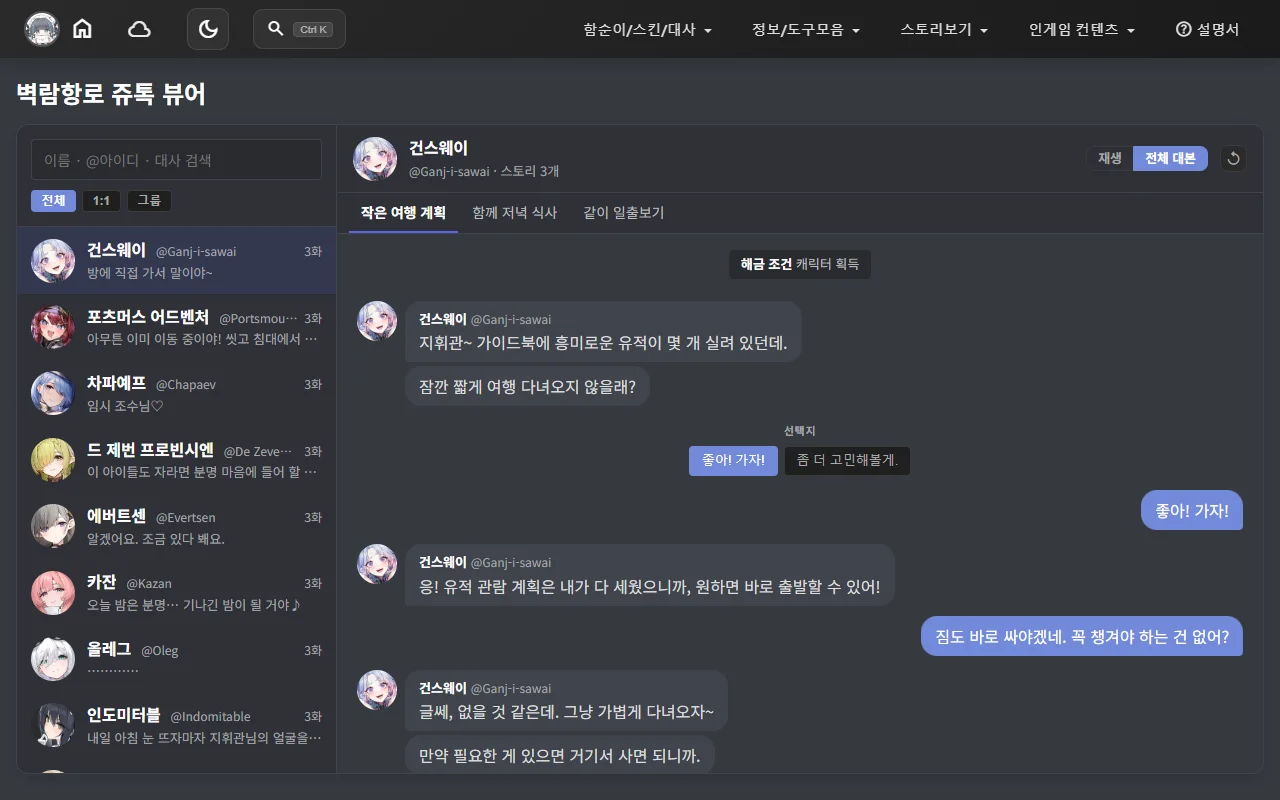
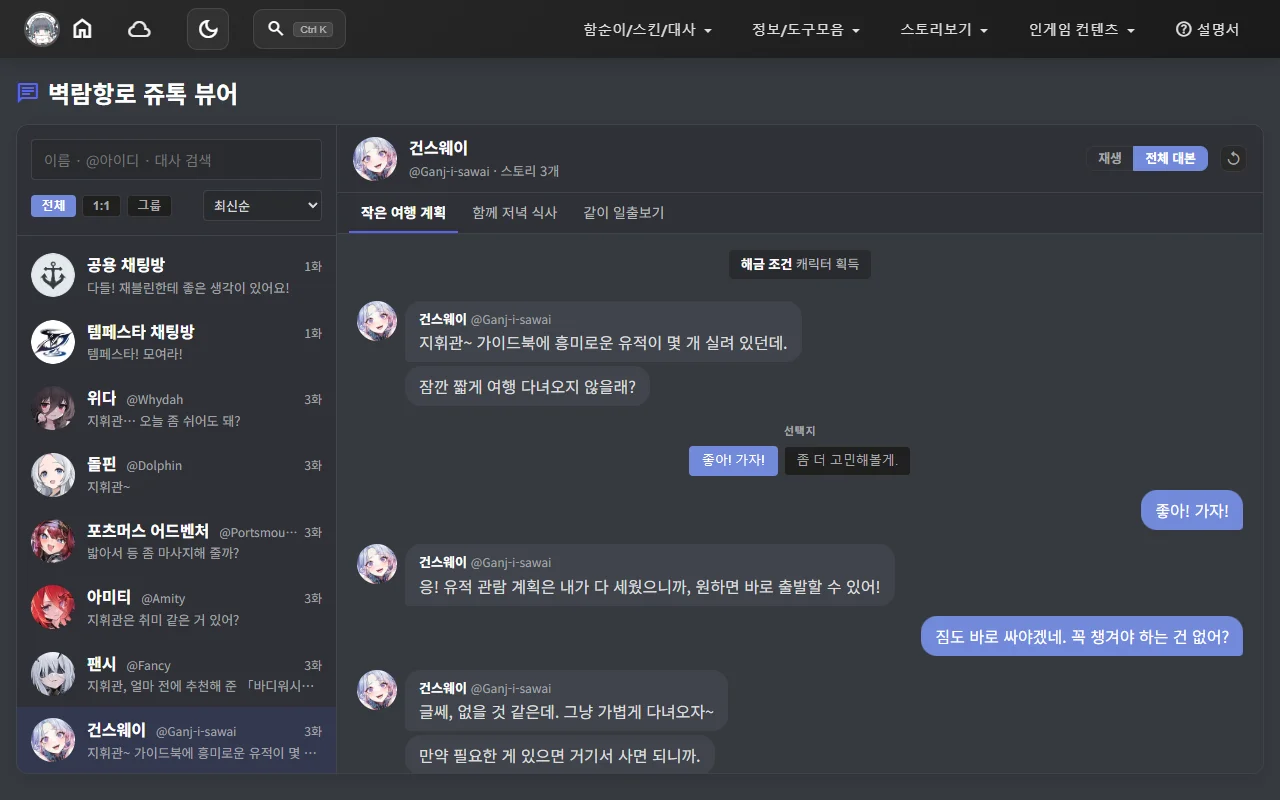
쥬스톡 ui 살짝 다듬기

Changed region(s): [[0.0, 0.2188, 0.2812, 0.9688], [0.0, 0.0938, 0.1875, 0.1562], [0.2188, 0.4688, 0.25, 0.5]]

diff --git a/public/js/chat-viewer/chat-viewer.engine.js b/public/js/chat-viewer/chat-viewer.engine.js
@@ -28,6 +28,8 @@ import {
     searchSpeakers,
     searchLines,
     storyHits,
+    addedOrder,
+    CHAT_SORTS,
 } from './chat-viewer.script.js';
 import {
     avatarNode,
@@ -43,6 +45,7 @@ import {
 import { renderSearchResults } from './chat-viewer.search.js';
 
 const MODE_KEY = 'chatViewerMode';
+const SORT_KEY = 'chatViewerSort';
 const LINE_PAGE = 50;           // 대사 hits shown per page of results
 const NEAR_BOTTOM_PX = 150;     // 재생 auto-scrolls only when the reader is this close to the end
 
@@ -74,6 +77,8 @@ export class ChatViewerEngine {
             app: byId('chat-app'),
             search: byId('chat-search'),
             filter: byId('chat-filter'),
+            kind: byId('chat-kind'),
+            sort: byId('chat-sort'),
             list: byId('chat-list'),
             results: byId('chat-results'),
             empty: byId('chat-empty'),
@@ -155,8 +160,7 @@ export class ChatViewerEngine {
         const list = Object.values(stories);
         const first = list[0];
         const group = isGroupChat(first);
-        const lastScripts = list[list.length - 1].scripts || [];
-        const preview = lastScripts.findLast((line) => line.type === 1)?.param ?? '';
+        const preview = (first.scripts || []).find((line) => line.type === 1)?.param ?? '';
         const speakerCount = group
             ? new Set(list.flatMap((s) => (s.scripts || []).map((l) => l.ship_group)).filter((g) => g > 1)).size
             : 0;
@@ -169,6 +173,7 @@ export class ChatViewerEngine {
             storyCount: list.length,
             speakerCount,
             preview: String(preview),
+            added: addedOrder(stories),
         };
     }
 
@@ -184,11 +189,14 @@ export class ChatViewerEngine {
             frag.append(row);
         }
         this.els.list.replaceChildren(frag);
-        if (!this.hasGroups) hideElement(this.els.filter); // Dorm3D: nothing to filter
+        if (!this.hasGroups) hideElement(this.els.kind); // Dorm3D: nothing to filter
+        const sort = getStorageItem(SORT_KEY, 'new');
+        this.els.sort.value = CHAT_SORTS[sort] ? sort : 'new';
+        this.sortList();
     }
 
     bindEvents() {
-        const { list, filter, search, results, back, mode, restart, tabs, log, reply, jump } = this.els;
+        const { list, filter, sort, search, results, back, mode, restart, tabs, log, reply, jump } = this.els;
         list.addEventListener('click', (event) => {
             const row = event.target.closest('[data-chat]');
             if (row) this.openChat(row.dataset.chat);
@@ -196,6 +204,10 @@ export class ChatViewerEngine {
         filter.addEventListener('click', (event) => {
             const chip = event.target.closest('[data-kind]');
             if (chip) this.applyKindFilter(chip.dataset.kind);
+        });
+        sort.addEventListener('change', () => {
+            setStorageItem(SORT_KEY, sort.value);
+            this.sortList();
         });
         search.addEventListener('input', debounce(() => this.runSearch(), 200));
         search.addEventListener('keydown', (event) => {
@@ -241,6 +253,12 @@ export class ChatViewerEngine {
             const { group } = this.chats.get(key);
             toggleElement(row, kind === 'all' || (kind === 'group') === group);
         }
+    }
+
+    /** Re-order the existing rows (append moves them); the kind filter's hidden rows stay hidden. */
+    sortList() {
+        const chats = [...this.chats.values()].sort(CHAT_SORTS[this.els.sort.value]);
+        this.els.list.append(...chats.map((chat) => this.rows.get(chat.key)));
     }
 
     selectRow(key) {
@@ -296,7 +314,7 @@ export class ChatViewerEngine {
         headName.textContent = chat.name;
         headSub.replaceChildren();
         if (chat.group) {
-            headSub.append(`그룹 채팅방 · 발언 ${chat.speakerCount}명 · 스토리 ${chat.storyCount}개`);
+            headSub.append(`그룹 채팅방 · 참여자 ${chat.speakerCount}명 · 스토리 ${chat.storyCount}개`);
         } else {
             if (chat.handle) headSub.append(handleNode(chat.handle), ' · ');
             headSub.append(`스토리 ${chat.storyCount}개`);
@@ -443,7 +461,7 @@ export class ChatViewerEngine {
         if (!query) {
             hideElement(this.els.results);
             showElement(this.els.list);
-            if (this.hasGroups) showElement(this.els.filter);
+            showElement(this.els.filter);
             return;
         }
         this.speakers ??= buildSpeakerIndex(this.allData, this.usernames);
@@ -477,7 +495,7 @@ export class ChatViewerEngine {
         const scripts = this.allData[chat]?.[story]?.scripts ?? [];
         if (open === 'speaker') {
             const gid = Number(btn.dataset.gid);
-            this.openStory(chat, story, { gid, label: `${btn.dataset.name} 발언`, hits: storyHits(scripts, { gid }), at: 0 });
+            this.openStory(chat, story, { gid, label: `${btn.dataset.name} 채팅`, hits: storyHits(scripts, { gid }), at: 0 });
         } else {
             const query = this.lastQuery; // what these rows were built from, not what is typed now
             const hits = storyHits(scripts, { query });

diff --git a/src/styles/chat-viewer/chat-viewer.common.sidebar.css b/src/styles/chat-viewer/chat-viewer.common.sidebar.css
@@ -1,6 +1,6 @@
 /* =============================================================================
    chat-viewer.common.sidebar.css
-   Left pane: search box, 전체 · 1:1 · 그룹 filter, chat-list rows, and the avatar /
+   Left pane: search box, 전체 · 1:1 · 그룹 filter + sort menu, chat-list rows, and the avatar /
    @아이디 atoms the header, log and search results reuse.
 ============================================================================= */
 
@@ -18,8 +18,8 @@
   border-bottom: 1px solid var(--chat-border);
 }
 
-.chat-search-input {
-  width: 100%;
+.chat-search-input,
+.chat-sort {
   box-sizing: border-box;
   padding: 0.5rem 0.75rem;
   border: 1px solid var(--chat-border);
@@ -30,13 +30,26 @@
   font-size: 0.9rem;
 }
 
-.chat-search-input:focus-visible {
+.chat-search-input {
+  width: 100%;
+}
+
+.chat-search-input:focus-visible,
+.chat-sort:focus-visible {
   outline: 2px solid var(--accent-primary);
   outline-offset: 1px;
 }
 
-.chat-filter {
+.chat-filter,
+.chat-kind {
   --filter-bar-gap: 0.375rem;
+}
+
+.chat-sort {
+  margin-left: auto;
+  padding: 0.25rem 0.375rem;
+  font-size: 0.8125rem;
+  cursor: pointer;
 }
 
 .chat-list,

diff --git a/public/js/chat-viewer/chat-viewer.script.js b/public/js/chat-viewer/chat-viewer.script.js
@@ -77,6 +77,23 @@ export function isGroupChat(story) {
 }
 
 /**
+ * When a chat last got a story, as a sortable number: its newest line `id`. Neither file
+ * carries a date, but line ids are global per file and grow with each release; Dorm3D story
+ * ids embed the ship group, so they cannot order its rooms.
+ */
+export function addedOrder(stories) {
+    return Math.max(...Object.values(stories).flatMap((story) => (story.scripts || []).map((line) => line.id)));
+}
+
+/** Chat-list orders over summaries ({ name, added }), keyed by the sort menu's values. */
+export const CHAT_SORTS = {
+    new: (a, b) => b.added - a.added,
+    old: (a, b) => a.added - b.added,
+    name: (a, b) => a.name.localeCompare(b.name, 'ko'),
+    'name-desc': (a, b) => b.name.localeCompare(a.name, 'ko'),
+};
+
+/**
  * @아이디 for a line's speaker: the username map (local flat `{gid: "handle"}` or the raw
  * template `{gid: {name}}`), else the story owner's ship_name when the owner speaks
  * (Dorm3D ships no username map). Player, system and unknown speakers → ''.

diff --git a/public/js/chat-viewer/chat-viewer.search.js b/public/js/chat-viewer/chat-viewer.search.js
@@ -41,7 +41,7 @@ function speakerGroup(speaker, ctx) {
         group.append(resultRow(
             { open: 'speaker', chat: a.chatKey, story: a.storyId, gid: String(speaker.gid), name: speaker.name },
             `${a.chatKey} · ${ctx.storyName(a.chatKey, a.storyId)}`,
-            `발언 ${a.count}`,
+            `채팅 ${a.count}`,
         ));
     }
     return group;

diff --git a/src/styles/chat-viewer/chat-viewer.common.base.css b/src/styles/chat-viewer/chat-viewer.common.base.css
@@ -25,6 +25,8 @@ body {
 
 .chat-page .page-header {
   --page-header-mb: 0.75rem;
+  --page-header-gap: 0.5rem;
+  --page-header-accent: var(--accent-primary);
 }
 
 .chat-page .page-header-title {

diff --git a/src/wiki-content/CHAT_JUUS.md b/src/wiki-content/CHAT_JUUS.md
@@ -10,11 +10,11 @@
 *왼쪽 대화방 목록 + 검색창*
 
 ## 주요 기능
-- **대화방 목록**: 함순이 이름 + @아이디, 스토리 개수, 마지막 대사 미리보기. `전체 · 1:1 · 그룹` 버튼으로 걸러볼 수 있음
+- **대화방 목록**: 함순이 이름 + @아이디, 스토리 개수, 대화방 첫 대사 미리보기. `전체 · 1:1 · 그룹` 버튼으로 걸러보고, 최신순 · 오래된순 · 이름순으로 정렬할 수 있음 (최신순 = 새 스토리가 최근에 추가된 대화방부터)
 - **스토리 탭 + 해금 조건**: 대화방 위쪽 탭으로 스토리를 바꾸고, 대화 맨 위에 인게임 해금 조건(요구 호감도 포함)이 나옴
 - **재생 모드**: 메시지가 하나씩 도착하고, 선택지에서 멈추면 지휘관 답장을 직접 골라서 진행. ↻ 버튼으로 처음부터 다시 볼 수 있음
 - **전체 대본 모드**: 대본 전체를 한 번에 펼쳐봄. 선택지마다 탭이 있어서 다른 답을 누르면 그 자리에서 분기가 바뀜. 마지막으로 쓴 모드는 기억됨
-- **함순이 검색**: 이름이나 @아이디로 찾으면 그 함순이의 1:1 대화방 + 직접 발언한 그룹 채팅방이 나옴. 그룹 채팅방을 열면 그 함순이의 발언을 ↑↓로 하나씩 넘겨볼 수 있음
+- **함순이 검색**: 이름이나 @아이디로 찾으면 그 함순이의 1:1 대화방 + 직접 채팅한 그룹 채팅방이 나옴. 그룹 채팅방을 열면 그 함순이의 채팅을 ↑↓로 하나씩 넘겨볼 수 있음
 - **대사 검색**: 대사 일부로 찾으면 그 대사가 있는 스토리로 바로 이동함. 선택지 분기 안에 있는 대사면 그 분기를 알아서 골라줌
 - **스티커**: 대화 중 나오는 스티커도 구현되어 있음 (움짤 이모티콘 제외)
 

diff --git a/src/wiki-content/CHAT_DORM3D.md b/src/wiki-content/CHAT_DORM3D.md
@@ -10,6 +10,6 @@
 *3D 숙소가 있는 함순이들의 대화방 목록*
 
 ## 주요 기능
-- **대화방 목록 + 검색**: 3D 숙소가 구현된 함순이들의 쥬톡을 골라보거나, 이름 · @아이디 · 대사로 찾을 수 있음
+- **대화방 목록 + 검색**: 3D 숙소가 구현된 함순이들의 쥬톡을 골라보거나, 이름 · @아이디 · 대사로 찾을 수 있음. 최신순 · 오래된순 · 이름순 정렬 지원
 - **재생 / 전체 대본**: 메시지가 하나씩 도착하는 재생 모드와 대본을 한 번에 펼쳐보는 전체 대본 모드를 오갈 수 있음
 - **해금 조건 + 선택지**: 스토리 탭, 해금 조건 표시, 선택지 진행 모두 일반 쥬톡 뷰어와 동일
